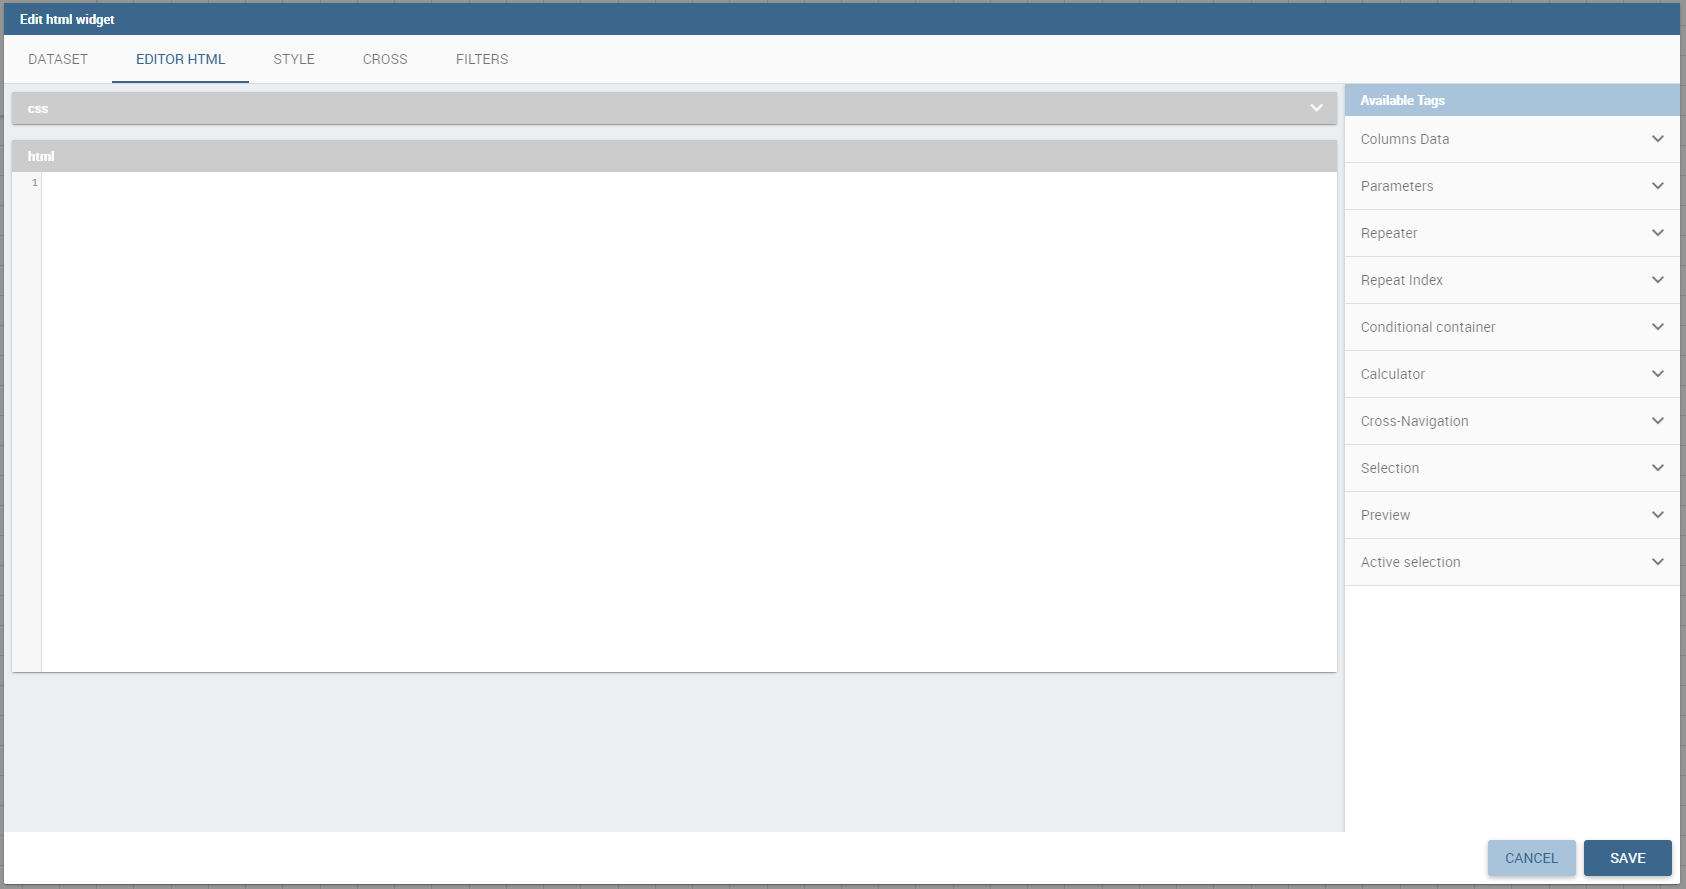
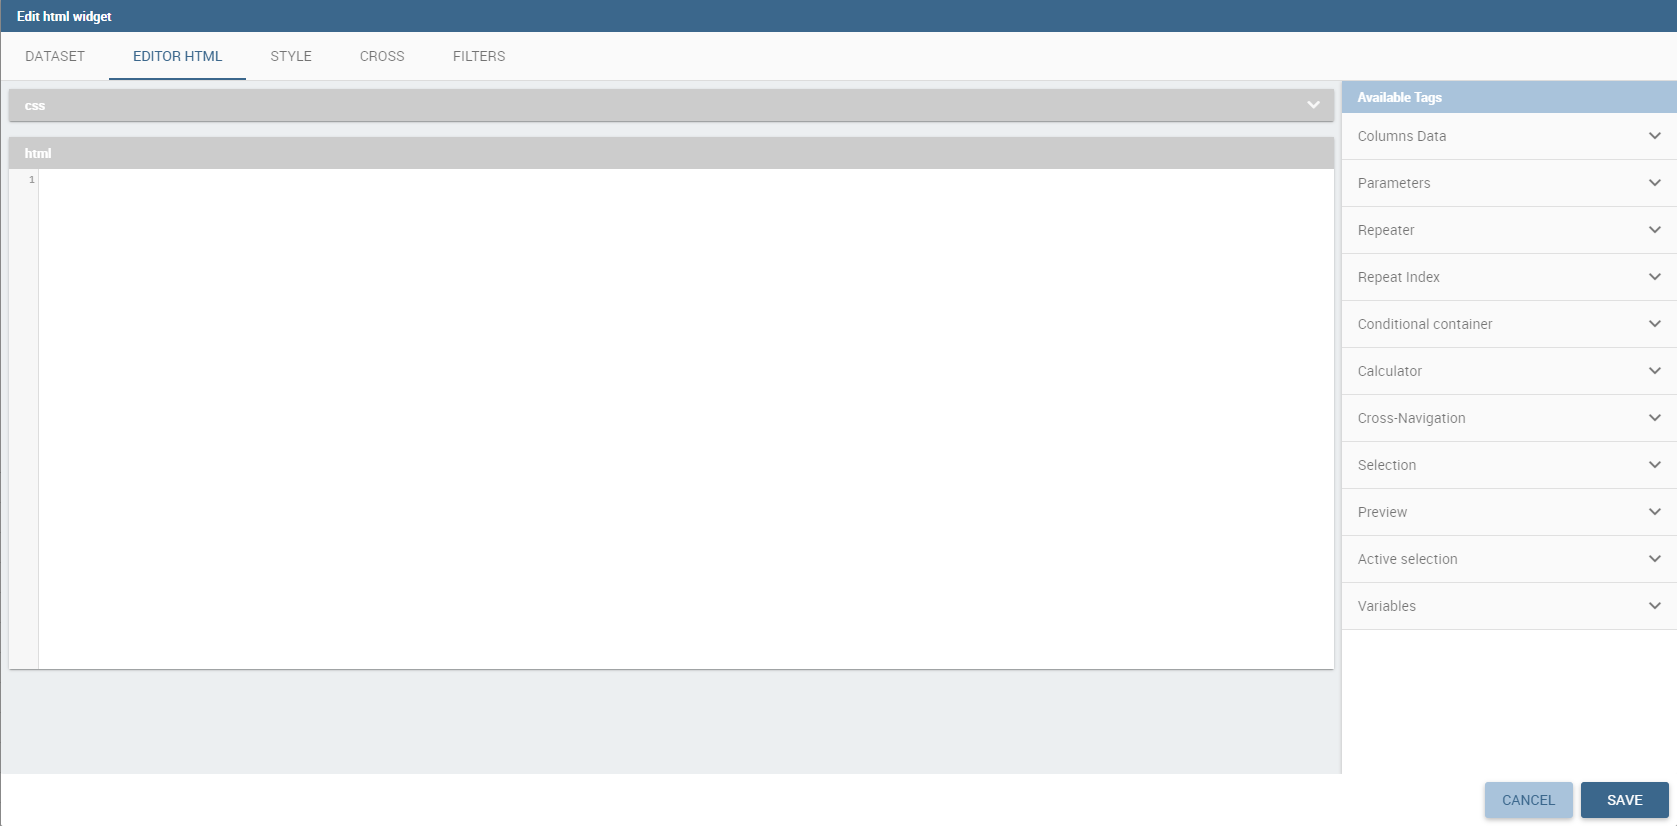
Added variables in html widget

Changed region(s): [[0.0, 0.0, 1.0, 1.0], [0.8062, 0.6659, 0.8682, 0.6961], [0.8062, 0.7264, 0.8372, 0.7567]]

diff --git a/functionalities-guide/cockpit/index.rst b/functionalities-guide/cockpit/index.rst
@@ -650,6 +650,12 @@ The ``kn-selection-column`` attribute is available to every HTML5 tag and is a w
 
 The **kn-selection-value** attribute is optional and will add a specific value to the column selection.
 
+``[kn-variable='VARIABLE-NAME' key='VARIABLE-KEY']``
+
+The ``kn-variable`` tag is the tool to read the runtime value of one of the defined variables. It will change depending on the current value and can be used inside kn-if and kn-calc.
+
+The **key** attribute is optional and will select a specific key from the variable object if the variable is "Dataset" type, returning a specific value instead of a complete dataset.
+
 **Banned Tags**
 
 In order to avoid Cross-site scripting and other vulnerabilities, some tags are automatically removed by the system when saving the cockpit:
